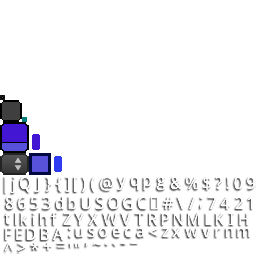
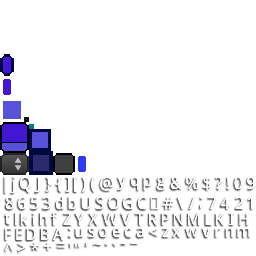
added unavailability state to buttons

Changed region(s): [[0.0, 0.1875, 0.3438, 0.6875]]

diff --git a/core/src/main/java/io/github/spacecraft/GameMenu.java b/core/src/main/java/io/github/spacecraft/GameMenu.java
@@ -181,32 +181,38 @@ public class GameMenu {
     private void updateButtonContent(TextButton button, String title, int levelGetter) {
         // clear existing and add new button content
         button.clearChildren();
-        button.add(createUpgradesButtonContent(title, levelGetter)).expand().fill();
+        button.add(createUpgradesButtonContent(title, levelGetter, true)).expand().fill();
     }
 
     // *******************
     // Ship Upgrades section
     // *******************
 
-    private Table createUpgradesButtonContent(String title, int levelGetter) {
+    private Table createUpgradesButtonContent(String title, int levelGetter, boolean available) {
         int levelCost = 2; // set the cost of upgrade to display
 
         Table buttonTable = new Table();
         VerticalGroup clickLevelButtonTitle = new VerticalGroup();
         Label titleLabel = new Label(title, skin);
-        titleLabel.setFontScale(1.5f);
+        titleLabel.setFontScale(2f);
         titleLabel.setAlignment(Align.left);
 
         Table levelAndCostTable = new Table();
         Label currentLevelLabel = new Label(levelGetter + "/50", skin, "CostLabel");
-        currentLevelLabel.setFontScale(1.5f);
+        currentLevelLabel.setFontScale(2f);
         currentLevelLabel.setAlignment(Align.center);
         Label upgradeCostLabel = new Label(String.valueOf(levelCost), skin, "CostLabel");
-        upgradeCostLabel.setFontScale(1.5f);
+        upgradeCostLabel.setFontScale(2f);
         upgradeCostLabel.setAlignment(Align.center);
 
+        if (!available) {
+            Label.LabelStyle unavailableLabelStyle = skin.get("unavailable", Label.LabelStyle.class);
+            currentLevelLabel.setStyle(unavailableLabelStyle);
+            upgradeCostLabel.setStyle(unavailableLabelStyle);
+        }
+
         clickLevelButtonTitle.addActor(titleLabel);
-        levelAndCostTable.add(currentLevelLabel).width(100);
+        levelAndCostTable.add(currentLevelLabel).width(100).padBottom(5);
         levelAndCostTable.row();
         levelAndCostTable.add(upgradeCostLabel).width(100);
 
@@ -227,22 +233,26 @@ public class GameMenu {
         // upgrade click level
         upgradeClickLevel = new TextButton("", skin);
         upgradeClickLevel.clearChildren(); // remove empty text so new content be centered
-        upgradeClickLevel.add(createUpgradesButtonContent("Click\nLevel", upgradesManager.getClickLevel())).expand().fill();
+        upgradeClickLevel.add(createUpgradesButtonContent("Click\nLevel", upgradesManager.getClickLevel(), true)).expand().fill();
 
         // upgrade idle charge
         upgradeIdleCharge = new TextButton("", skin);
+        if (5 < 10) {
+            TextButton.TextButtonStyle unavailableStyle = skin.get("unavailable", TextButton.TextButtonStyle.class);
+            upgradeIdleCharge.setStyle(unavailableStyle);
+        }
         upgradeIdleCharge.clearChildren();
-        upgradeIdleCharge.add(createUpgradesButtonContent("Idle\nCharge", upgradesManager.getIdleChargeLevel())).expand().fill();
+        upgradeIdleCharge.add(createUpgradesButtonContent("Idle\nCharge", upgradesManager.getIdleChargeLevel(), false)).expand().fill();
 
         // upgrade navigation
         upgradeNavigation = new TextButton("", skin);
         upgradeNavigation.clearChildren();
-        upgradeNavigation.add(createUpgradesButtonContent("Navigator", upgradesManager.getNavigatorLevel())).expand().fill();
+        upgradeNavigation.add(createUpgradesButtonContent("Navigator", upgradesManager.getNavigatorLevel(), true)).expand().fill();
 
         // upgrade harvest time
         upgradeHarvestTimeButton = new TextButton("", skin);
         upgradeHarvestTimeButton.clearChildren();
-        upgradeHarvestTimeButton.add(createUpgradesButtonContent("Harvest\nTime", upgradesManager.getHarvestTimeLevel())).expand().fill();
+        upgradeHarvestTimeButton.add(createUpgradesButtonContent("Harvest\nTime", upgradesManager.getHarvestTimeLevel(), true)).expand().fill();
 
         // add listeners for buttons
         upgradeClickLevel.addListener(new ClickListener() {
@@ -306,7 +316,7 @@ public class GameMenu {
         // add specific menu content here
         TextButton refineAsteroidButton = new TextButton("", skin);
         Label refineLabel = new Label("Refine", skin);
-        refineLabel.setFontScale(1.5f);
+        refineLabel.setFontScale(2f);
 
         refineAsteroidButton.clearChildren();
         refineAsteroidButton.add(refineLabel);
@@ -353,22 +363,22 @@ public class GameMenu {
         // increase tractor quantity
         upgradeTractorQuantity = new TextButton("", skin);
         upgradeTractorQuantity.clearChildren();
-        upgradeTractorQuantity.add(createUpgradesButtonContent("Tractor\nQuantity", upgradesManager.getTractorQuantityLevel())).expand().fill();
+        upgradeTractorQuantity.add(createUpgradesButtonContent("Tractor\nQuantity", upgradesManager.getTractorQuantityLevel(), true)).expand().fill();
 
         // upgrade harvest scanner
         upgradeScanner = new TextButton("", skin);
         upgradeScanner.clearChildren();
-        upgradeScanner.add(createUpgradesButtonContent("Harvest\nScanner", upgradesManager.getScannerLevel())).expand().fill();
+        upgradeScanner.add(createUpgradesButtonContent("Harvest\nScanner", upgradesManager.getScannerLevel(), true)).expand().fill();
 
         // upgrade refinery quality
         upgradeRefineryQuality = new TextButton("", skin);
         upgradeRefineryQuality.clearChildren();
-        upgradeRefineryQuality.add(createUpgradesButtonContent("Refinery\nQuality", upgradesManager.getRefineQualityLevel())).expand().fill();
+        upgradeRefineryQuality.add(createUpgradesButtonContent("Refinery\nQuality", upgradesManager.getRefineQualityLevel(), true)).expand().fill();
 
         // upgrade to auto refine
         upgradeToAutoRefine = new TextButton("", skin);
         upgradeToAutoRefine.clearChildren();
-        upgradeToAutoRefine.add(createUpgradesButtonContent("Auto\nRefine", upgradesManager.getAutoRefineLevel())).expand().fill();
+        upgradeToAutoRefine.add(createUpgradesButtonContent("Auto\nRefine", upgradesManager.getAutoRefineLevel(), true)).expand().fill();
 
         // add listeners for buttons
         upgradeTractorQuantity.addListener(new ClickListener() {
@@ -424,7 +434,11 @@ public class GameMenu {
         contentTable.setFillParent(true);
 
         // add specific menu content here
-        TextButton shopButton = new TextButton("Reset Stats", skin);
+        TextButton shopButton = new TextButton("", skin);
+        Label resetStatsLabel = new Label("Reset Stats", skin);
+        resetStatsLabel.setFontScale(2f);
+        shopButton.clearChildren();
+        shopButton.add(resetStatsLabel);
 
         // add listeners for buttons
         shopButton.addListener(new ClickListener() {
